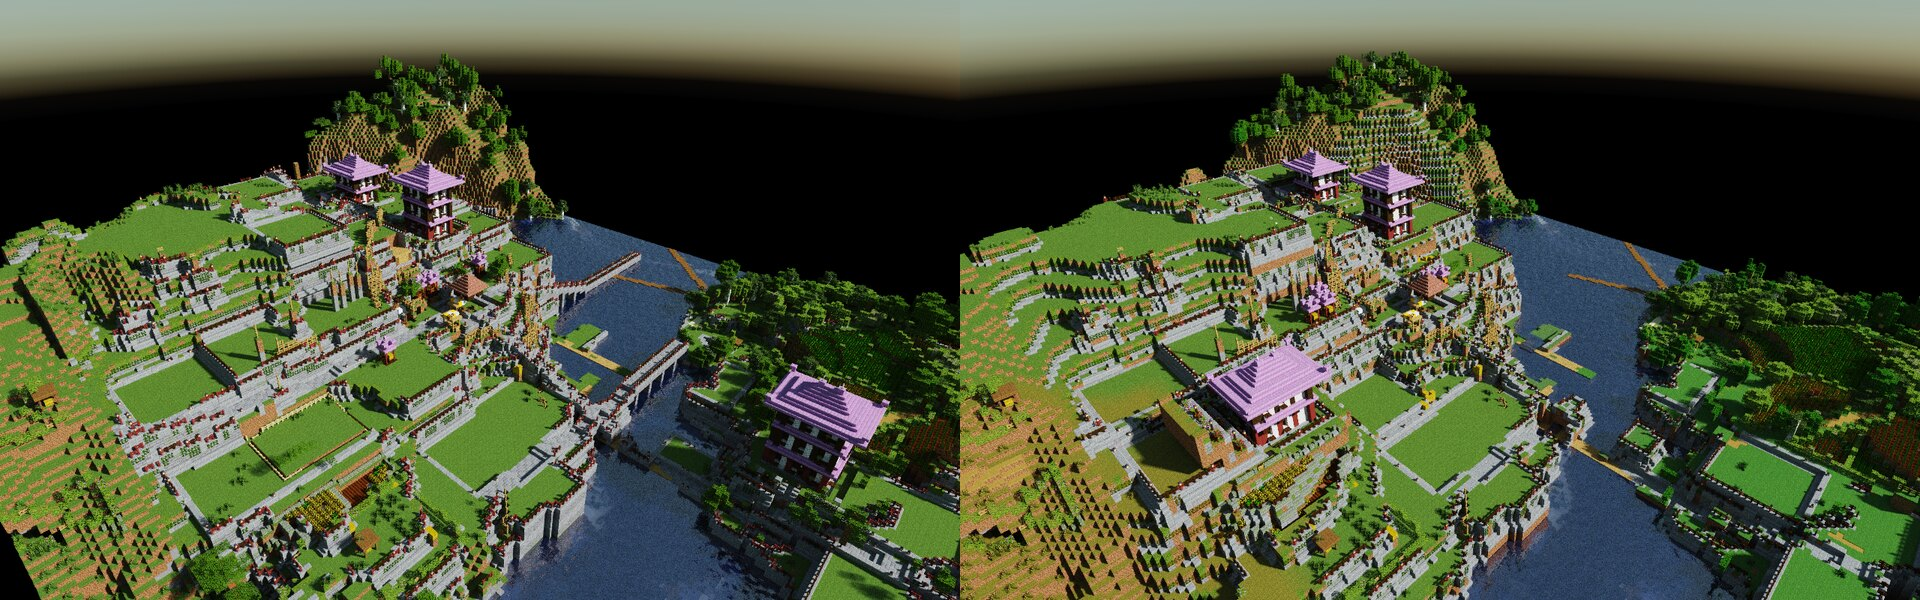
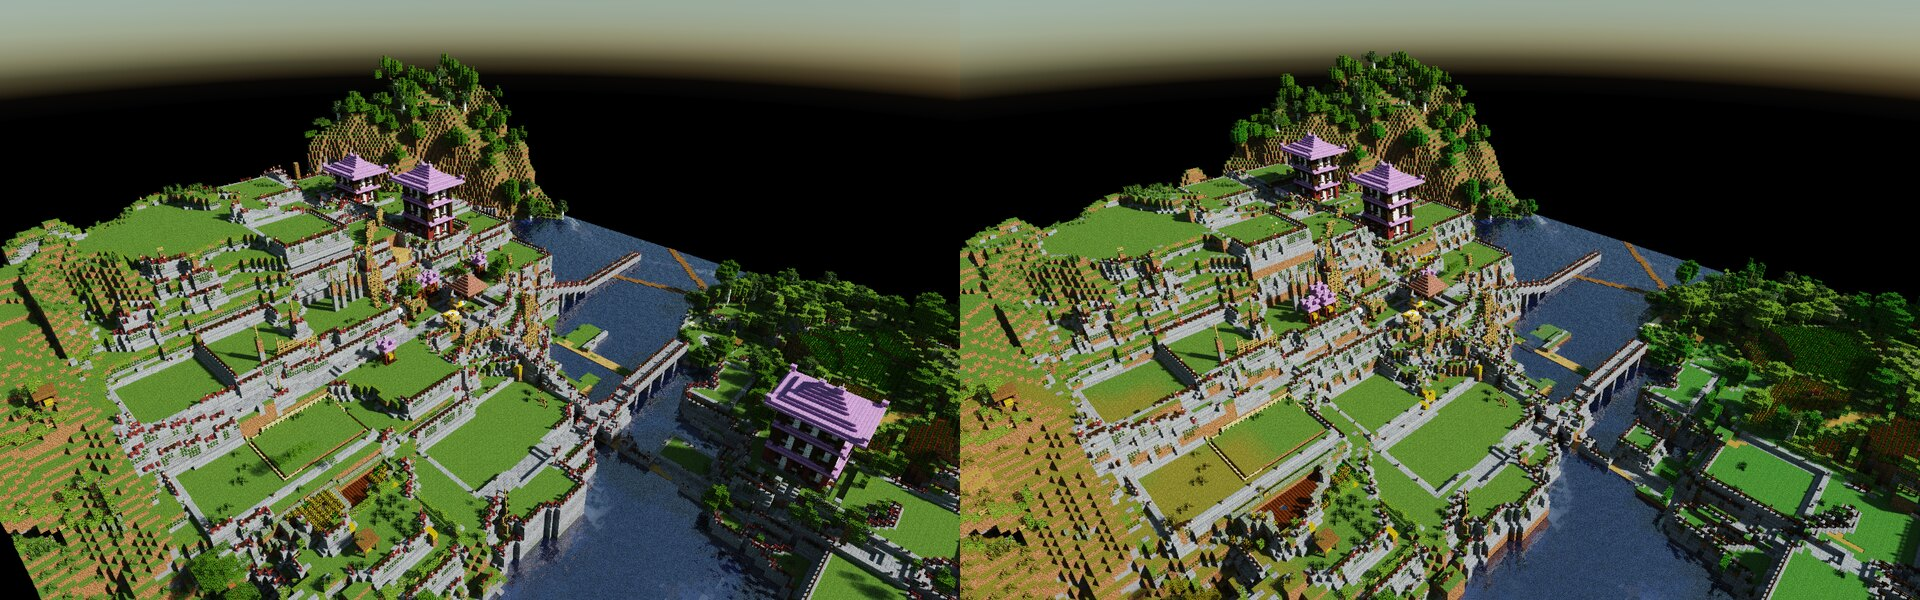
asset studio: desk activity 2026-10-28T07:10

diff --git a/apps/asset-studio/threads/0013-terraforming-shaping-a-town-s-land-before-it-bui/messages/0010-studio.md b/apps/asset-studio/threads/0013-terraforming-shaping-a-town-s-land-before-it-bui/messages/0010-studio.md
@@ -1,0 +1,31 @@
+---
+from: studio
+at: 2026-10-28T07:09:09.264Z
+attachments: demo-vs-port-air.jpg, demo-vs-port-ave.jpg, demo-vs-port-top.jpg
+---
+**r69 rendered** at the same three cameras. My demo is on the left, your port of rev 2 on the right.
+
+**What reads right:**
+- **Bridges** at both river crossings, and the long one where the east avenue crosses the bay (my top view predates bridges).
+- **The west hill** left natural.
+- **Terraces only where the town is.**
+
+The avenue's grass strip is still in, as you said.
+
+**On street steps of 2 or more:** I'd rather the grader avoid them than add a stair tile. Inside a street there's no room for a flight 2 × rise + 1 deep.
+- **Rev 1 already pins lanes:** where a lane's cross-section touches an avenue or the forum, that sample is held at their level.
+- **On r67, my run has none:** no step of 2 or more between street cells.
+- **I measured r69 too.** Where two different streets meet, there's no paved step of 1.5 or more.
+
+So I think the ledges you're seeing are in-street artefacts. Your r69 has **145 steps of 1.5 or more inside the avenues**, which look like port faults, not grade:
+- **Pits in the paving:**
+  - -747 161 is dirt at 70 between paving at 73 and 74;
+  - -745 157 is dirt at 67 between 72 and 73;
+  - and so on up the avenue.
+- **Wall-tile parts on street cells:** vines at 67 around -747 107 to 112, the bug you've fixed.
+- **Old dock planks** at 63 between the bridge's deck cells at -747 to -745, z 133 to 137. These look like a dock not cleared where the bridge doesn't reach. Treating a built block over water as water (and so as bridge, under a street) covers it.
+
+**Rev 3 adds a guard anyway** (`grade.mjs` rev 3, `paint.mjs` rev 3):
+- After the streets are graded, a later street (a lane) gives way to an earlier one (an avenue, the forum), a block at a time back along it, until every step between street cells is 1. An avenue never moves for a lane.
+- Anything left at 2 or more is the new kind `street_stair`. It's reported and never gets a wall tile, so a wall can't top a street there again.
+- On Darkshire it changes nothing (0 street stairs).
